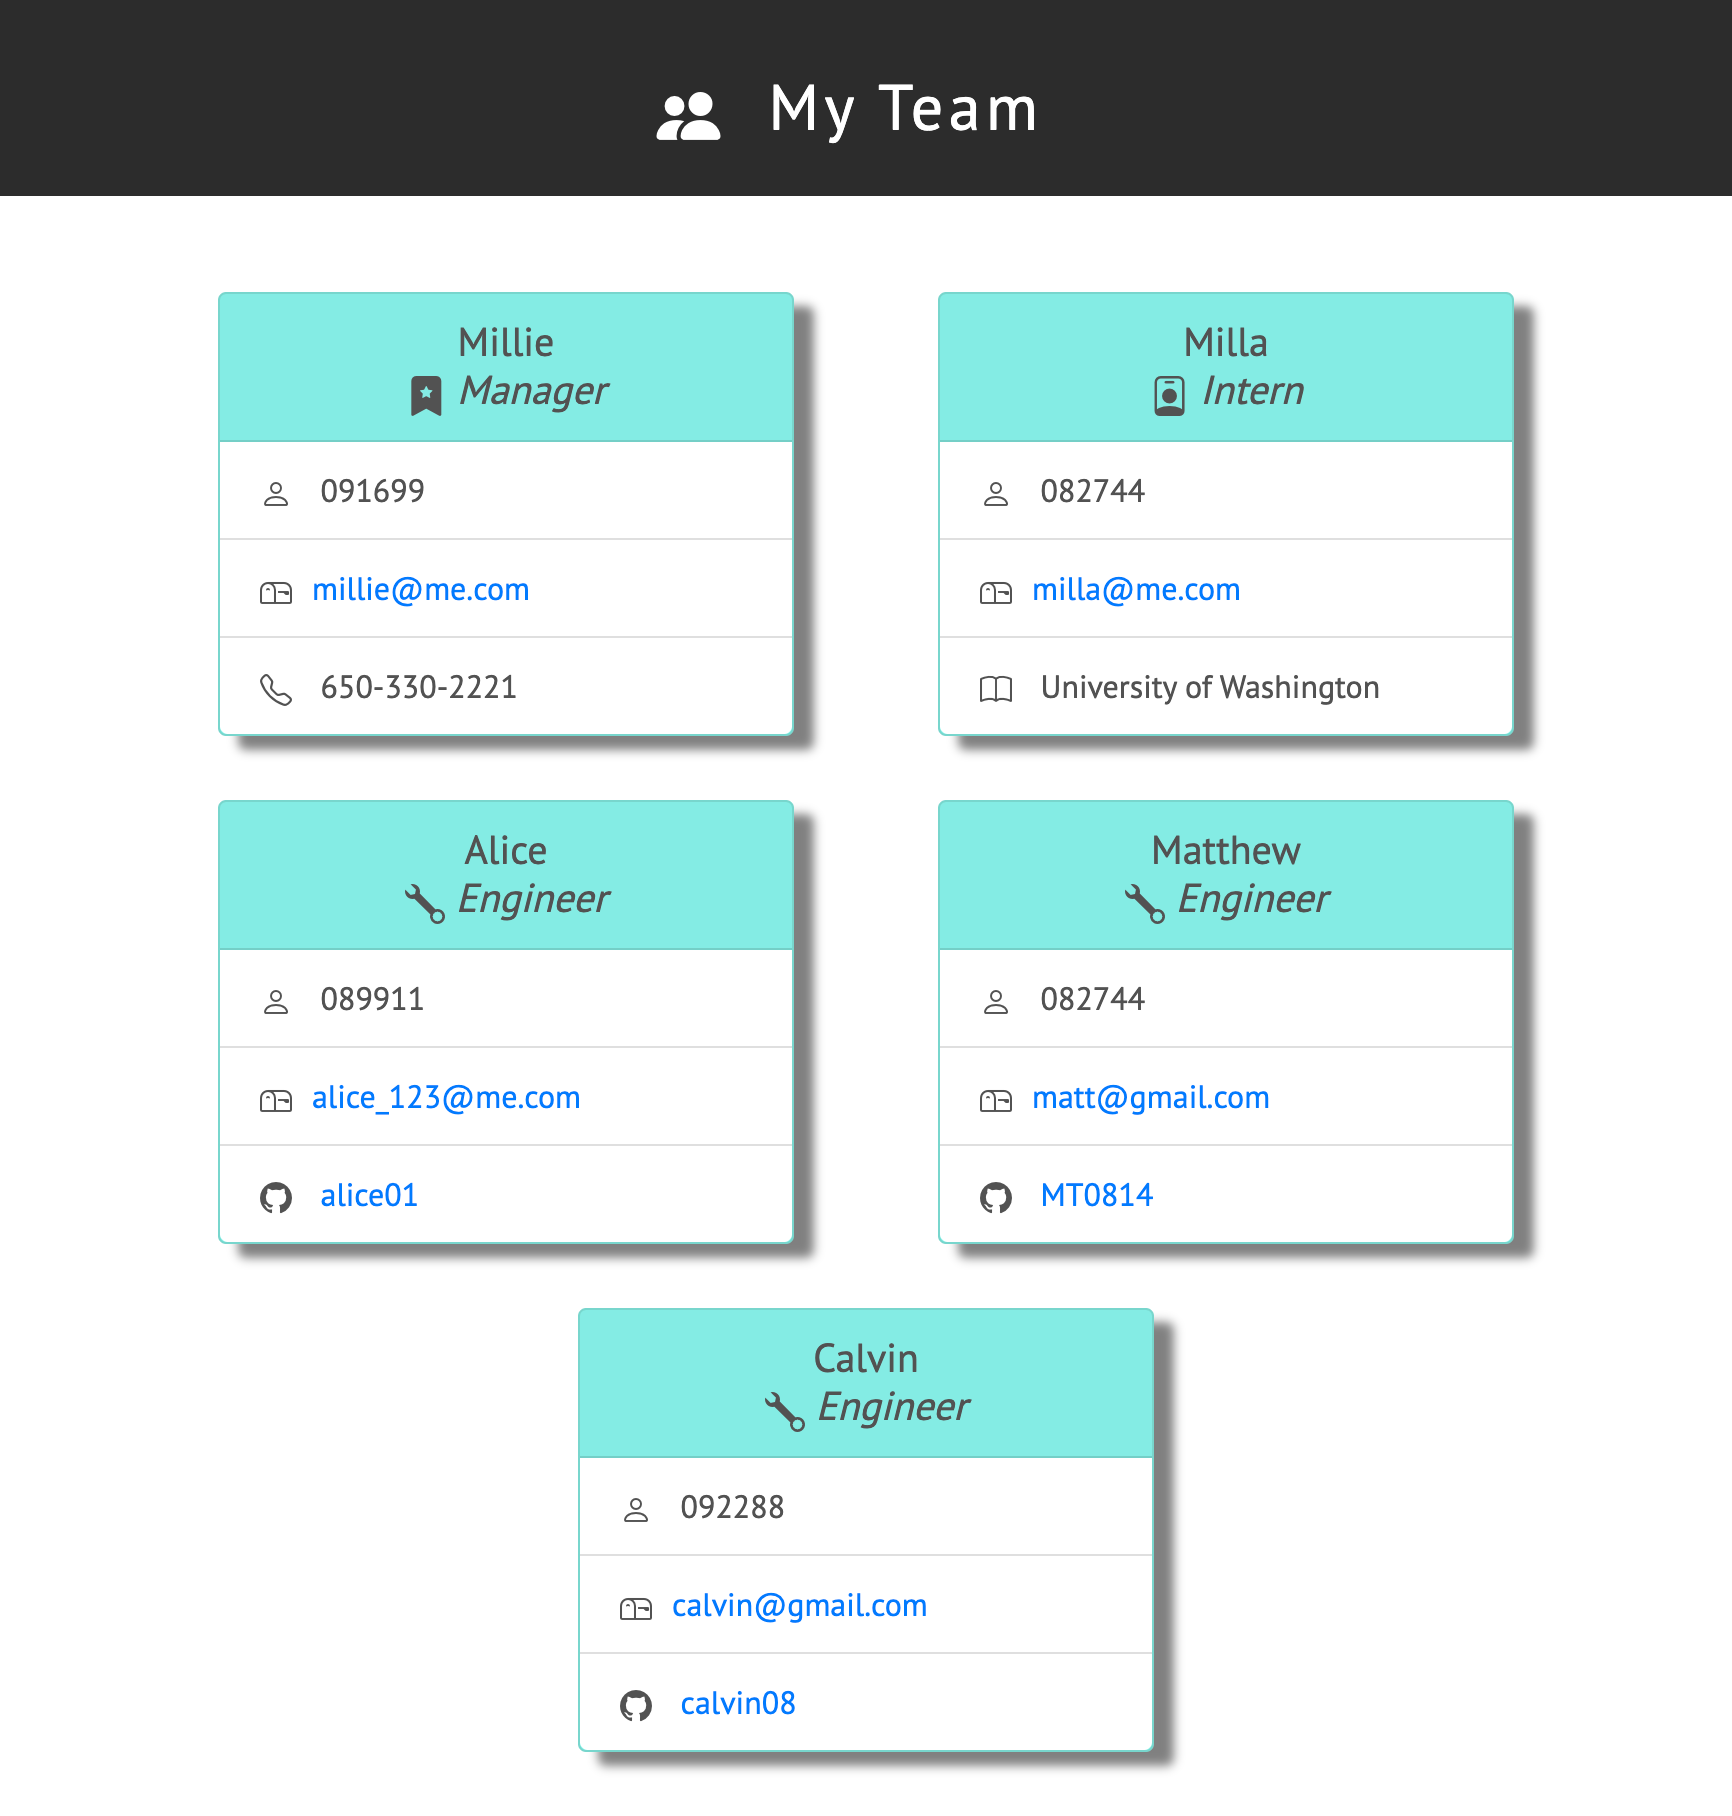
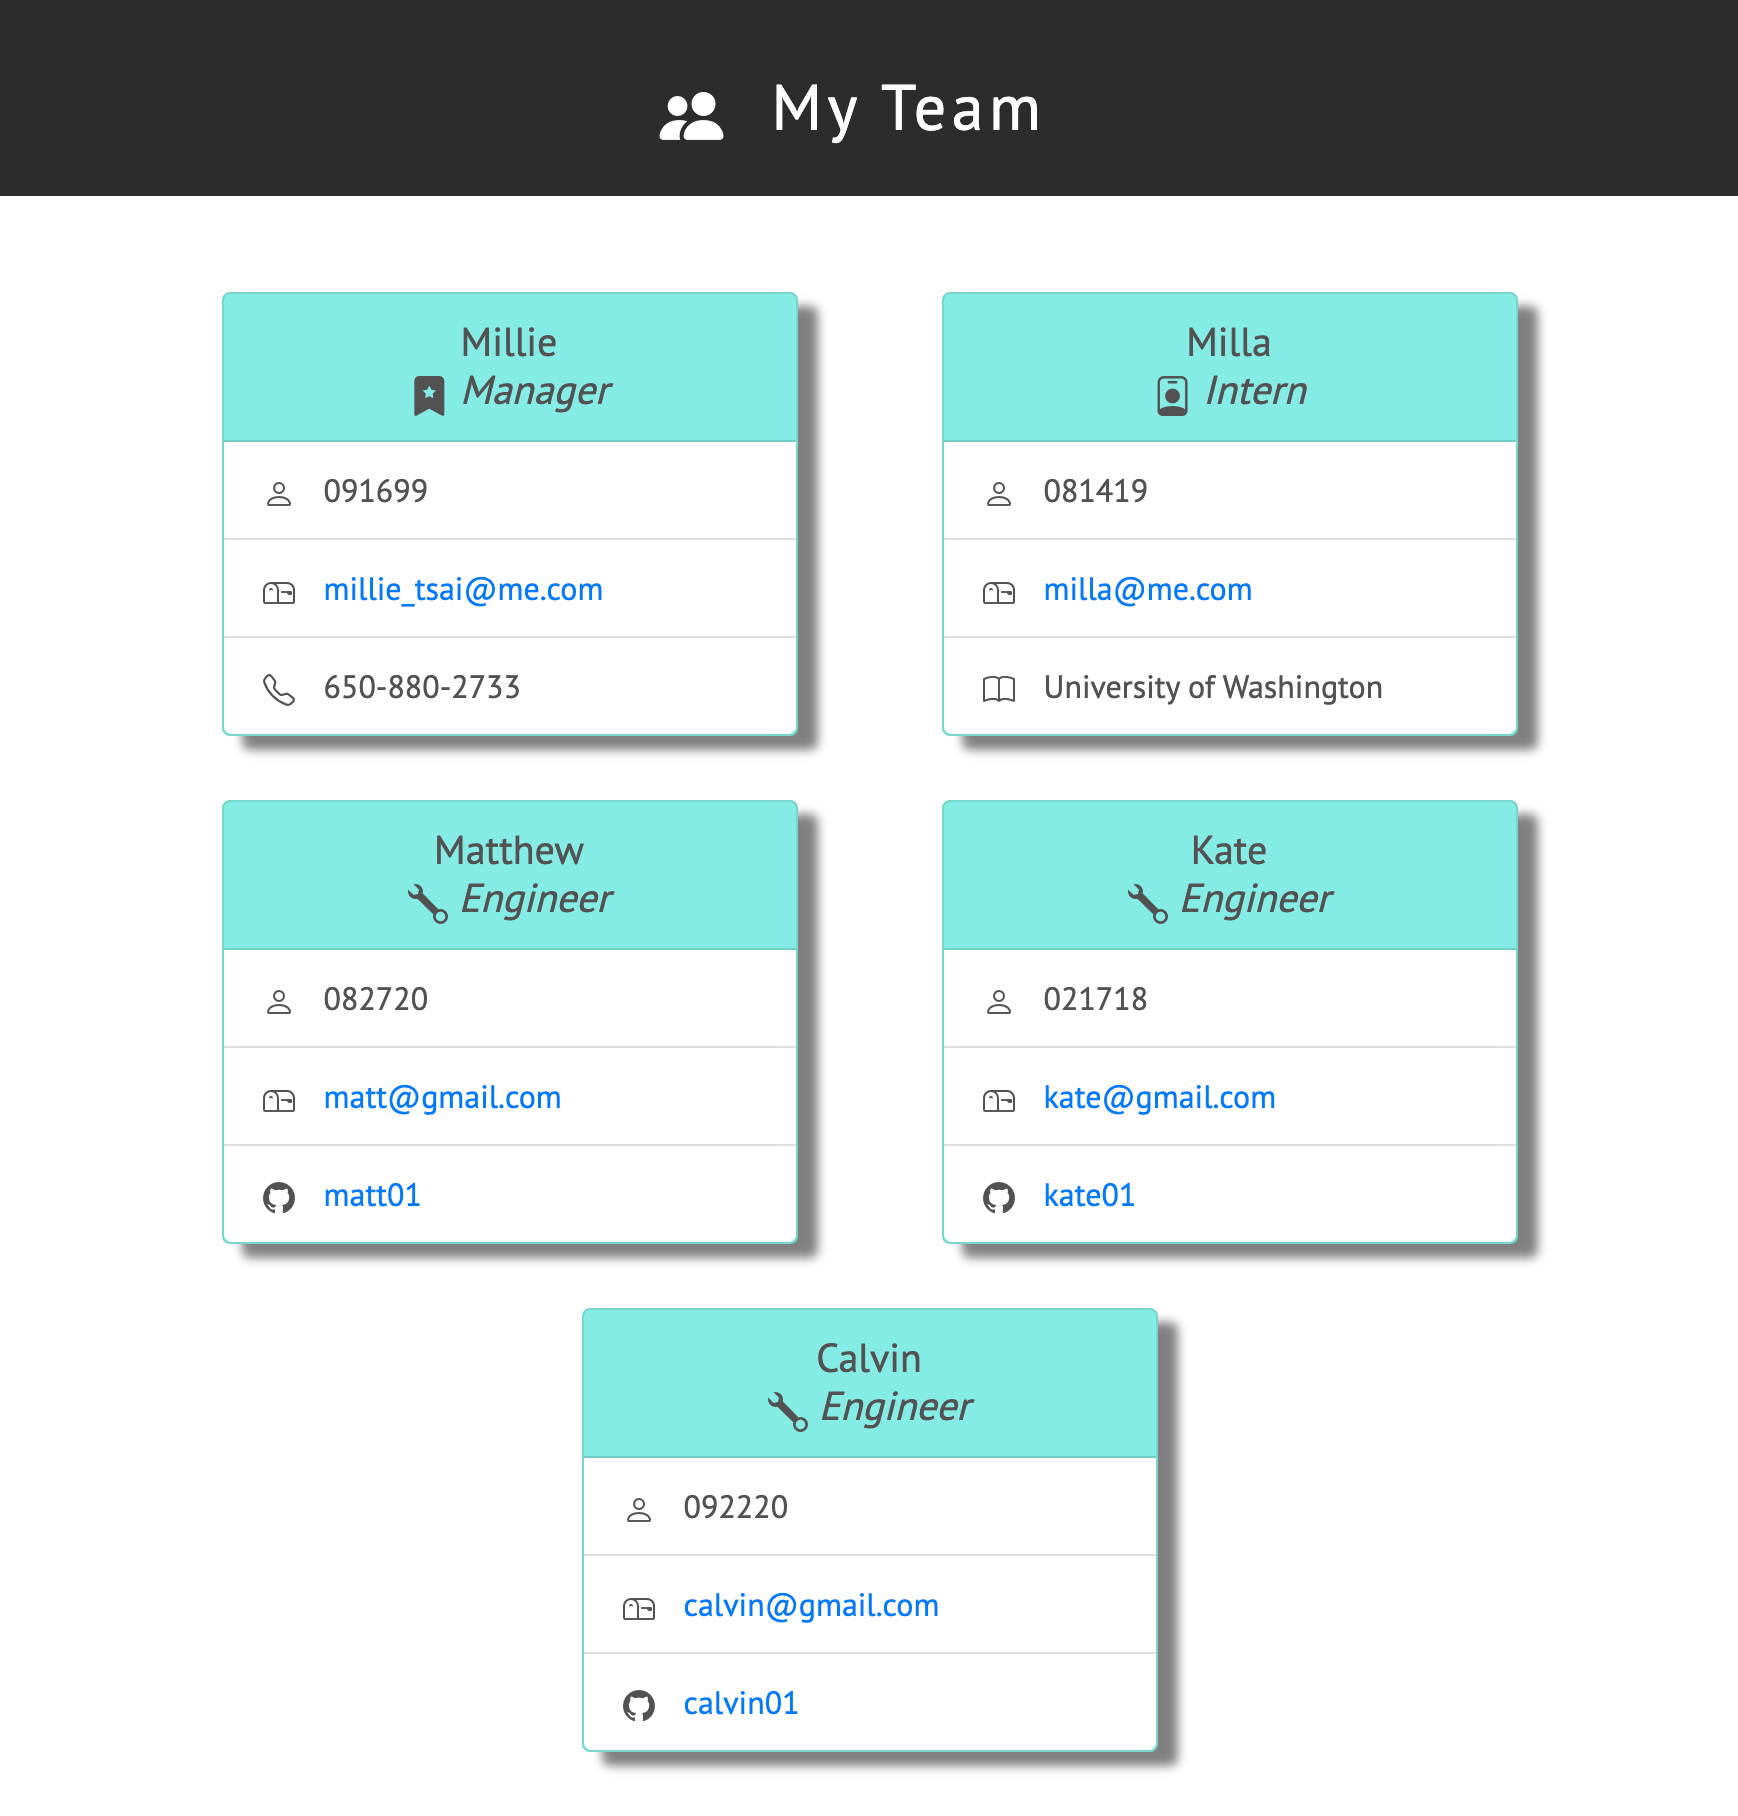
updated screenshot

diff --git a/dist/index.html b/dist/index.html
@@ -34,42 +34,42 @@
         <div class="container">
             <div class="row"><div class="col table">
             <div class="card mb-3" style="width: 18rem">
-                <h5 class="card-header">Millie<br /><i class="bi bi-bookmark-star-fill"> Manager</i></h5>
+                <h5 class="card-header">Millie <br /><i class="bi bi-bookmark-star-fill"> Manager</i></h5>
                   <ul class="list-group list-group-flush">
                   <li class="list-group-item"><i class="bi bi-person"></i>  091699</li>
-                  <li class="list-group-item"><i class="bi-mailbox"></i><a href="mailto: millie@me.com" target="_blank">millie@me.com</a></li>
-                    <li class="list-group-item"><i class="bi bi-telephone"></i>  650-330-2221</li>
+                  <li class="list-group-item"><i class="bi-mailbox"></i><a href="mailto: millie_tsai@me.com" target="_blank">  millie_tsai@me.com</a></li>
+                    <li class="list-group-item"><i class="bi bi-telephone"></i>  650-880-2733</li>
                   </ul>
             </div>
         </div><div class="col table">
             <div class="card mb-3" style="width: 18rem">
                 <h5 class="card-header">Milla<br><i class="bi bi-person-badge"> Intern</i></h5>
                 <ul class="list-group list-group-flush">
-                <li class="list-group-item"><i class="bi bi-person"></i>  082744</li>
-                <li class="list-group-item"><i class="bi-mailbox"></i><a href="mailto: milla@me.com" target="_blank">milla@me.com</a></li>
+                <li class="list-group-item"><i class="bi bi-person"></i>  081419</li>
+                <li class="list-group-item"><i class="bi-mailbox"></i><a href="mailto: milla@me.com" target="_blank">  milla@me.com</a></li>
                     <li class="list-group-item"><i class="bi bi-book"></i>  University of Washington</li>
                 </ul>
             </div>
         </div>
             <div class="col table">
                 <div class="card  mb-3" style="width: 18rem">
-                    <h5 class="card-header">Alice<br /><i class="bi bi-wrench"> Engineer</i>
+                    <h5 class="card-header">Matthew<br /><i class="bi bi-wrench"> Engineer</i>
                     </h5>
                     <ul class="list-group list-group-flush">
-                       <li class="list-group-item"><i class="bi bi-person"></i>  089911</li>
-                       <li class="list-group-item"><i class="bi-mailbox"></i><a href="mailto: alice_123@me.com target="_blank">alice_123@me.com</a></li>
-                       <li class="list-group-item"><i class="bi-github" role="img" aria-label="GitHub"></i><a href="https://github.com/alice01" target="_blank">  alice01</a></li>
+                       <li class="list-group-item"><i class="bi bi-person"></i>  082720</li>
+                       <li class="list-group-item"><i class="bi-mailbox"></i><a href="mailto: matt@gmail.com" target="_blank">  matt@gmail.com</a></li>
+                       <li class="list-group-item"><i class="bi-github" role="img" aria-label="GitHub"></i><a href="https://github.com/matt01" target="_blank">  matt01</a></li>
                     </ul>
                 </div>
             </div>
             <div class="col table">
                 <div class="card  mb-3" style="width: 18rem">
-                    <h5 class="card-header">Matthew<br /><i class="bi bi-wrench"> Engineer</i>
+                    <h5 class="card-header">Kate<br /><i class="bi bi-wrench"> Engineer</i>
                     </h5>
                     <ul class="list-group list-group-flush">
-                       <li class="list-group-item"><i class="bi bi-person"></i>  082744</li>
-                       <li class="list-group-item"><i class="bi-mailbox"></i><a href="mailto: matt@gmail.com target="_blank">matt@gmail.com</a></li>
-                       <li class="list-group-item"><i class="bi-github" role="img" aria-label="GitHub"></i><a href="https://github.com/MT0814" target="_blank">  MT0814</a></li>
+                       <li class="list-group-item"><i class="bi bi-person"></i>  021718</li>
+                       <li class="list-group-item"><i class="bi-mailbox"></i><a href="mailto: kate@gmail.com" target="_blank">  kate@gmail.com</a></li>
+                       <li class="list-group-item"><i class="bi-github" role="img" aria-label="GitHub"></i><a href="https://github.com/kate01" target="_blank">  kate01</a></li>
                     </ul>
                 </div>
             </div>
@@ -78,9 +78,9 @@
                     <h5 class="card-header">Calvin<br /><i class="bi bi-wrench"> Engineer</i>
                     </h5>
                     <ul class="list-group list-group-flush">
-                       <li class="list-group-item"><i class="bi bi-person"></i>  092288</li>
-                       <li class="list-group-item"><i class="bi-mailbox"></i><a href="mailto: calvin@gmail.com target="_blank">calvin@gmail.com</a></li>
-                       <li class="list-group-item"><i class="bi-github" role="img" aria-label="GitHub"></i><a href="https://github.com/calvin08" target="_blank">  calvin08</a></li>
+                       <li class="list-group-item"><i class="bi bi-person"></i>  092220</li>
+                       <li class="list-group-item"><i class="bi-mailbox"></i><a href="mailto: calvin@gmail.com" target="_blank">  calvin@gmail.com</a></li>
+                       <li class="list-group-item"><i class="bi-github" role="img" aria-label="GitHub"></i><a href="https://github.com/calvin01" target="_blank">  calvin01</a></li>
                     </ul>
                 </div>
             </div> </div>

diff --git a/index.js b/index.js
@@ -63,6 +63,7 @@ function addTeamMember() {
             type: "input",
             message: "Enter team member's id: ",
             name: "id",
+            uniquie: true,
             validate: function (answer) {
                 if (answer.length < 1) {
                     return console.log("A valid ID is required.");
